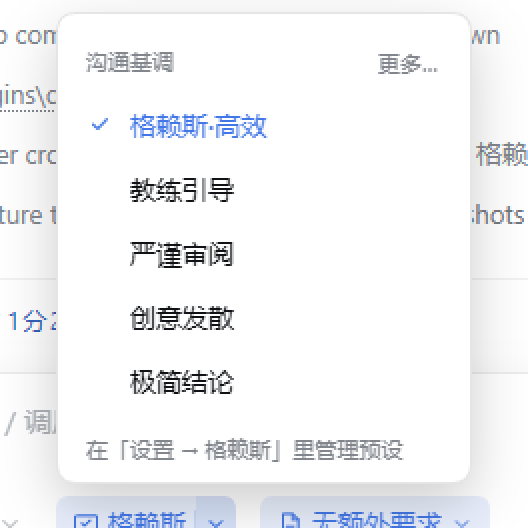
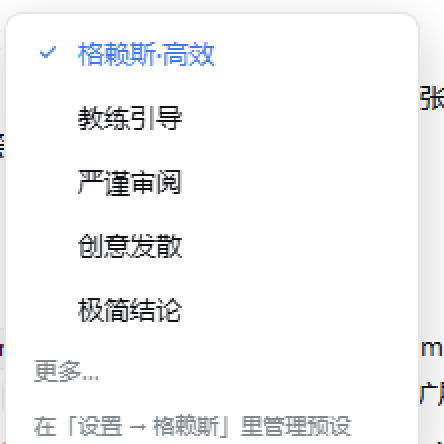
refine: 两个预设菜单统一结构（勾选列表 + 更多… + 底部提示），更新菜单截图

diff --git a/client.js b/client.js
@@ -29,7 +29,7 @@ window.__ModuleLoader__.load({
       tone: '基调',
       toneAria: '沟通与思考基调',
       toneHint: '选择沟通/思考基调；选中后自动开启格赖斯模式。',
-      menuAria: '选择沟通基调与产出形态',
+      menuAria: '选择沟通基调',
       toneDefault: '格赖斯·高效',
       output: '产出',
       outputAria: '产出形态',
@@ -85,7 +85,7 @@ window.__ModuleLoader__.load({
       tone: 'Tone',
       toneAria: 'Communication and thinking tone',
       toneHint: 'Pick a tone; selecting one turns Grice mode on.',
-      menuAria: 'Choose tone and output form',
+      menuAria: 'Choose communication tone',
       toneDefault: 'Grice · efficient',
       output: 'Output',
       outputAria: 'Output form',
@@ -158,10 +158,6 @@ window.__ModuleLoader__.load({
       '.dshgrice-split-caret:hover{background:var(--dsw-alias-interactive-bg-hover)}',
       '.dshgrice-split[data-active="1"] .dshgrice-split-caret:hover{background:color-mix(in srgb,var(--dsw-alias-state-business-primary,#4d6bfe) 10%,transparent)}',
       '.dshgrice-split-caret:focus-visible{box-shadow:0 0 0 2px var(--dsw-focus-ring-color,var(--dsw-alias-state-business-primary))}',
-      '.dshgrice-menu-wide{min-width:250px;max-width:300px;max-height:440px;overflow-y:auto}',
-      '.dshgrice-menu-section{padding:2px 0 4px}',
-      '.dshgrice-menu-head{display:flex;align-items:center;justify-content:space-between;gap:8px;padding:6px 10px 4px}',
-      '.dshgrice-menu-head-label{color:var(--dsw-alias-label-tertiary);font-size:11px;font-weight:500}',
       '.dshgrice-menu-more-btn{appearance:none;border:none;background:transparent;color:var(--dsw-alias-label-tertiary);font-size:11px;padding:0 2px;cursor:pointer}',
       '.dshgrice-menu-more-btn:hover{color:var(--dsw-alias-label-primary);text-decoration:underline}',
       '.dshgrice-menu-more-row{display:block;width:100%;padding:6px 10px;border-radius:var(--dsw-radius-sm);font-size:12px;text-align:left}',
@@ -516,7 +512,7 @@ window.__ModuleLoader__.load({
         const presets = usePresets()
         const [open, setOpen] = React.useState(false)
         const [expanded, setExpanded] = React.useState({ tone: false, output: false })
-        const [position, setPosition] = React.useState(null)
+        const [position, setPosition] = React.useState({ left: 980, top: 880 })
         const [busy, setBusy] = React.useState(false)
         const [failure, setFailure] = React.useState(null)
         const anchorRef = React.useRef(null)
@@ -616,43 +612,25 @@ window.__ModuleLoader__.load({
           h('span', { key: 'text', className: 'dshgrice-menu-text' }, preset.name),
         ])
 
-        const section = (kind, list, selectedId, withClear) => {
-          const pinned = list.filter((preset) => preset.pinned).slice(0, 5)
-          const hidden = list.filter((preset) => !pinned.includes(preset))
-          const shown = expanded[kind] ? list : pinned
-          return h('div', { key: `${kind}-section`, className: 'dshgrice-menu-section' }, [
-            h('div', { key: 'head', className: 'dshgrice-menu-head' }, [
-              h('span', { key: 'label', className: 'dshgrice-menu-head-label' }, kind === 'tone' ? t.settingsTone : t.settingsOutput),
-              hidden.length > 0
-                ? h('button', {
-                  key: 'more',
-                  type: 'button',
-                  className: 'dshgrice-menu-more-btn',
-                  onClick: () => setExpanded({ ...expanded, [kind]: !expanded[kind] }),
-                }, expanded[kind] ? t.collapse : t.more)
-                : null,
-            ]),
-            withClear ? h('button', {
-              key: 'clear',
-              type: 'button',
-              className: 'dshgrice-menu-item',
-              'data-selected': snapshot.output === null ? '1' : undefined,
-              onClick: () => choose('output', null),
-            }, [
-              h('span', { key: 'check', className: 'dshgrice-menu-check' }, snapshot.output === null ? h(CheckGlyph) : null),
-              h('span', { key: 'text', className: 'dshgrice-menu-text' }, t.outputNone),
-            ]) : null,
-            shown.map((preset) => row(kind, preset, selectedId)),
-          ])
-        }
+        const pinned = toneList.filter((preset) => preset.pinned).slice(0, 5)
+        const hidden = toneList.filter((preset) => !pinned.includes(preset))
+        const shown = expanded.tone ? toneList : pinned
 
         const menu = open
           ? h('div', {
-            className: 'dshgrice-menu dshgrice-menu-wide',
+            className: 'dshgrice-menu',
             style: position === null ? undefined : position,
             role: 'menu',
           }, [
-            section('tone', toneList, toneId, false),
+            shown.map((preset) => row('tone', preset, toneId)),
+            hidden.length > 0
+              ? h('button', {
+                key: 'more',
+                type: 'button',
+                className: 'dshgrice-menu-more-btn dshgrice-menu-more-row',
+                onClick: () => setExpanded({ ...expanded, tone: !expanded.tone }),
+              }, expanded.tone ? t.collapse : t.more)
+              : null,
             h('div', { key: 'hint', className: 'dshgrice-menu-hint' }, t.manageHint),
           ])
           : null
